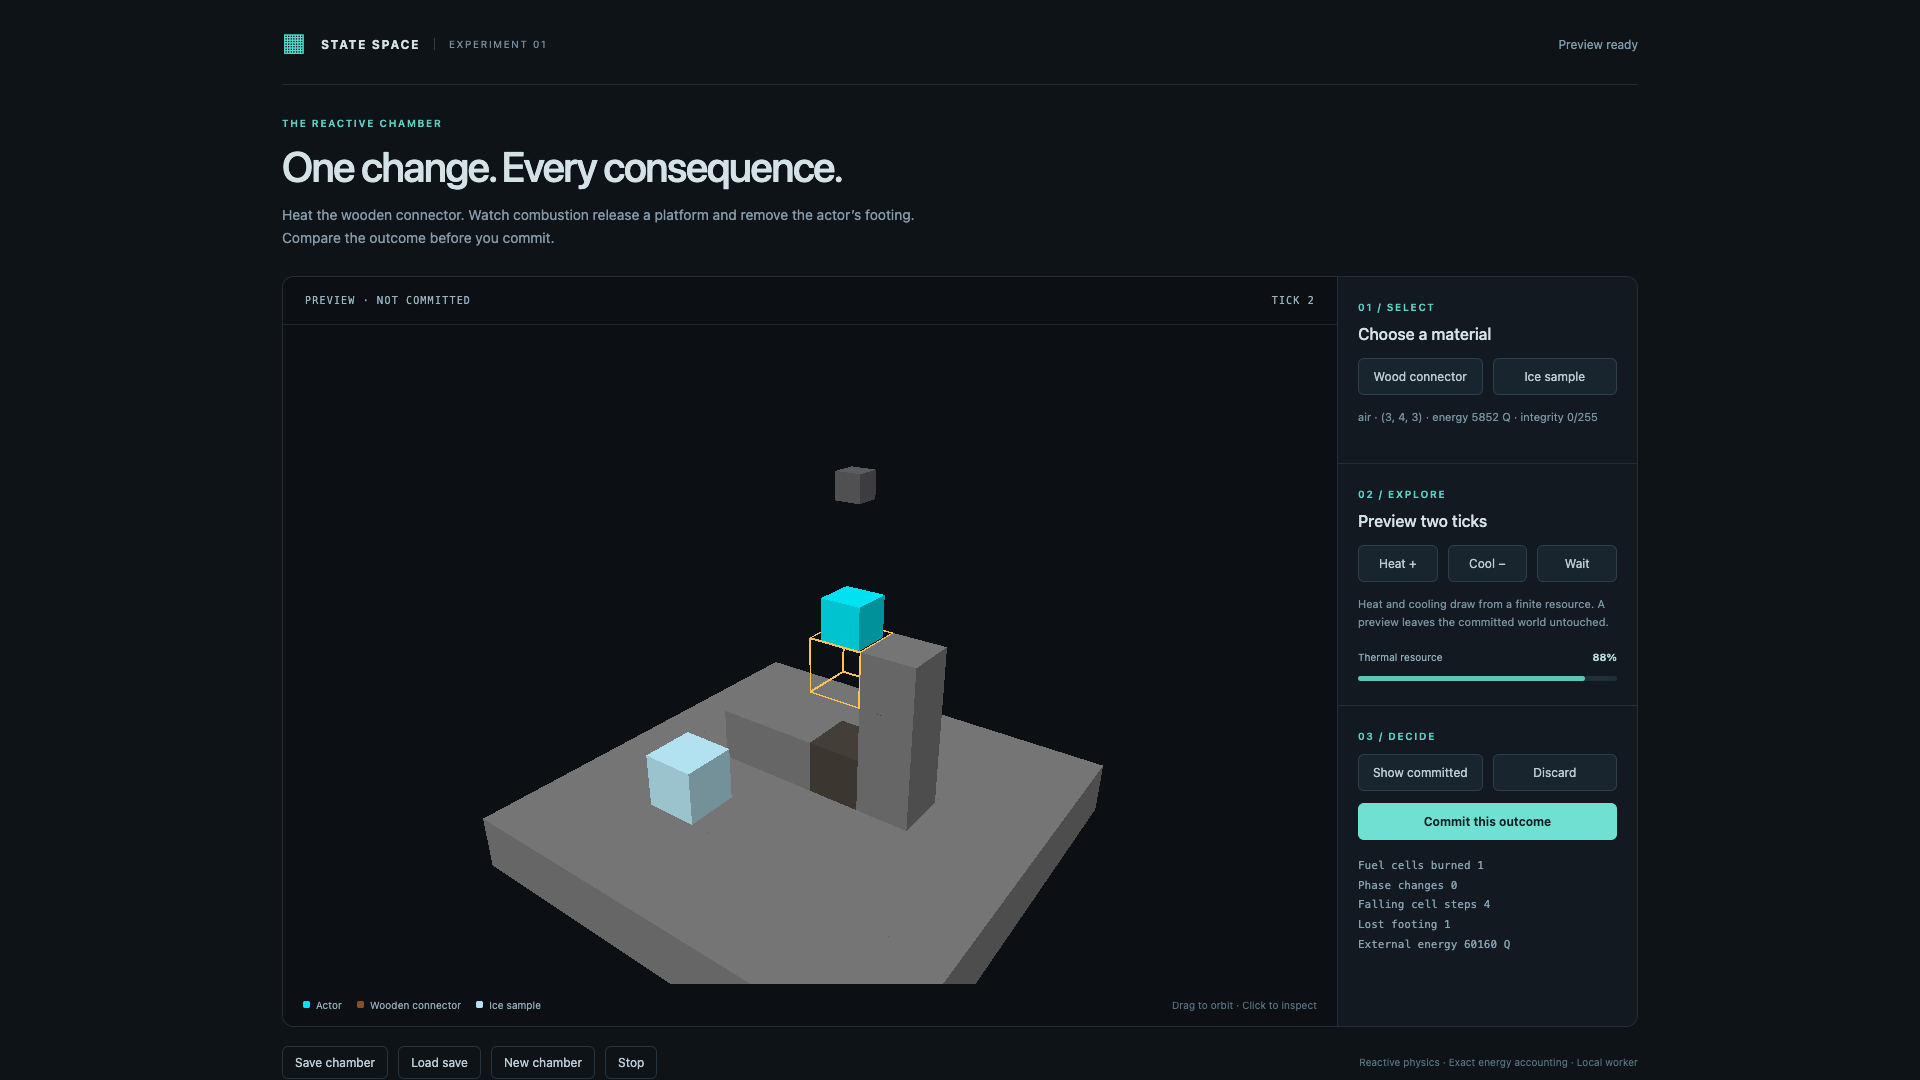
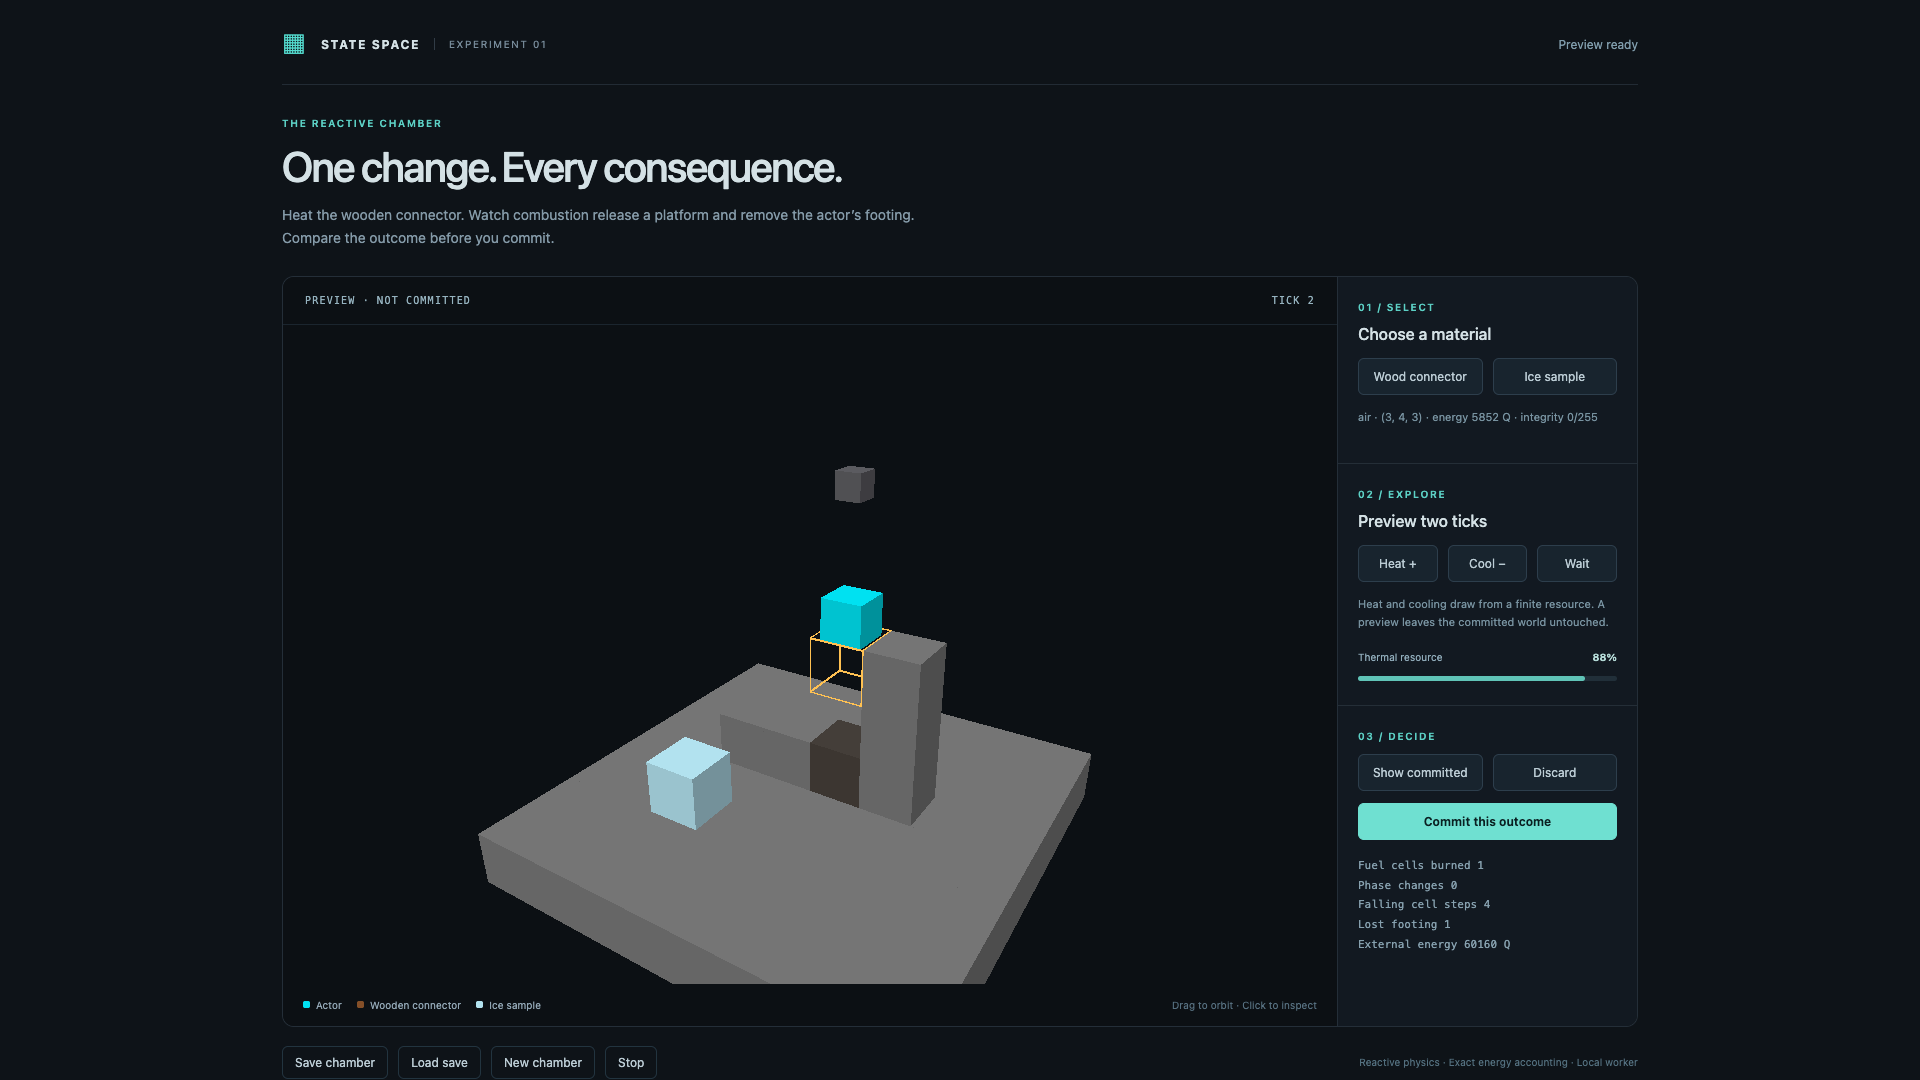
Refresh chamber acceptance with Retina and final regression evidence

diff --git a/docs/checkpoints/REACTIVE_CHAMBER.md b/docs/checkpoints/REACTIVE_CHAMBER.md
@@ -1,6 +1,6 @@
 # Reactive chamber: native macOS acceptance
 
-Implementation commit: `b9c15cb6cff52387a9d98490315ae733f474c1f8`. The source hashes in the
+Implementation commit: `e8234c953e2e4e74ba58e6b57ec056ebd8acc801`. The source hashes in the
 [raw report](reactive-chamber-20261019/report.json) were checked against the local
 implementation after the final SDK rebuild. The [evidence index](reactive-chamber-20261019/evidence.json)
 binds the report, screenshot and retained local supervisor receipt by SHA-256.
@@ -16,16 +16,16 @@ no browser console errors, exact energy drift was zero, and cleanup completed.
 
 | Measurement | Result | Acceptance target |
 | --- | ---: | ---: |
-| Two-tick preview p95, 12 samples | 18.1 ms | ≤250 ms |
-| Cancellation acknowledgement p95, 12 samples | 1.3 ms | ≤100 ms |
-| RAF worst gap during previews | 17.8 ms | <100 ms |
-| Camera render p95, 120 measured frames | 1.5 ms | — |
+| Two-tick preview p95, 12 samples | 17.5 ms | ≤250 ms |
+| Cancellation acknowledgement p95, 12 samples | 1.2 ms | ≤100 ms |
+| RAF worst gap during previews | 16.8 ms | <100 ms |
+| Camera render p95, 120 measured frames | 1.4 ms | — |
 | Worst completed camera render | 1.8 ms | ≤16.667 ms |
-| Worst application render, including state changes | 4.0 ms | observed |
+| Worst application render, including state changes | 3.1 ms | observed |
 
 The offscreen camera test used 640×400 targets, ten warm-up frames after its
 initial pixel/depth frame, and 120 measured frames. The real application rendered
-30 additional frames at its capped canvas size. Camera timings include
+32 additional frames at its capped canvas size. Camera timings include
 encoding, submission and GPU completion; they are not simulation tick timings.
 
 ## Executed behavior
@@ -44,17 +44,19 @@ encoding, submission and GPU completion; they are not simulation tick timings.
   preserves the last acknowledged save and sends no retry.
 - Closing an active preview and stopping during startup release their resources.
   The renderer rejects overlapping frames and drains a pending frame on close.
+- Capped Retina sizing preserves the canvas aspect ratio; scripted pointer events
+  select the rendered cell after CSS/backing-store coordinate conversion.
 - Native color/depth readback contains terrain and actor pixels, correct clear
   depth and a visible actor face in front of its projected center.
 
 ## Review and regression checks
 
 Review found and corrected the initial actor-size scale assumption, startup/stop
-races, externally mutable initial-save exposure, and endpoint failure cleanup.
+races, externally mutable initial-save exposure, endpoint failure cleanup, and Retina projection/picking alignment.
 The actor now uses the SDK's 1,024 Q/cell geometry scale; causal, picking and real
 browser checks passed after correction. No unresolved blocking finding remains.
 
-The final implementation passed 1,815 Vitest tests and 18 Node controller tests,
+The final implementation passed 1,817 Vitest tests and 18 Node controller tests,
 46 smoke tests and 13 smoke/transport tests, 64 supervisor tests (four existing
 platform/containment cases skipped), two archive tests, and installed Python/npm
 package checks with all 13 npm entry points. SDK/browser builds, TypeScript,
